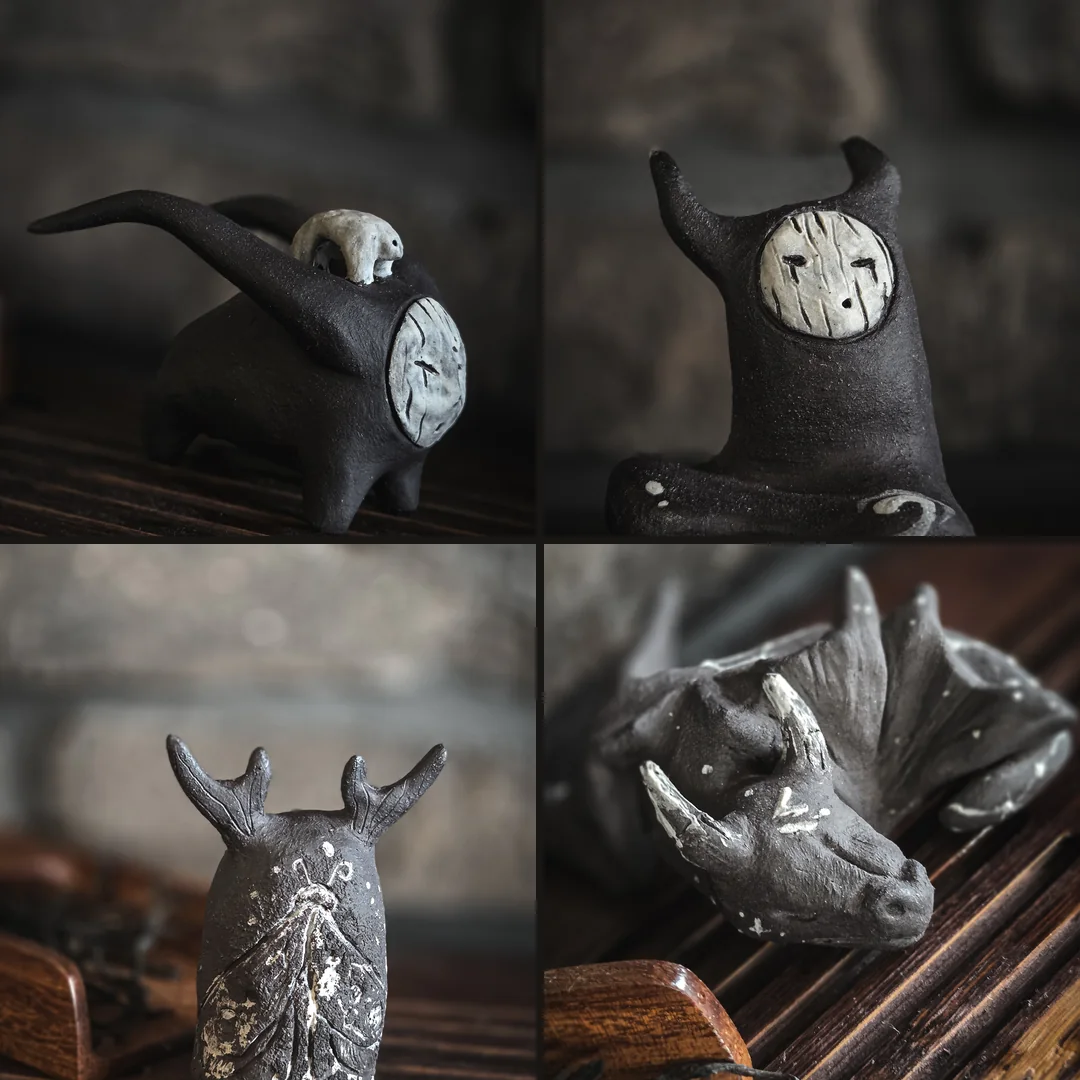
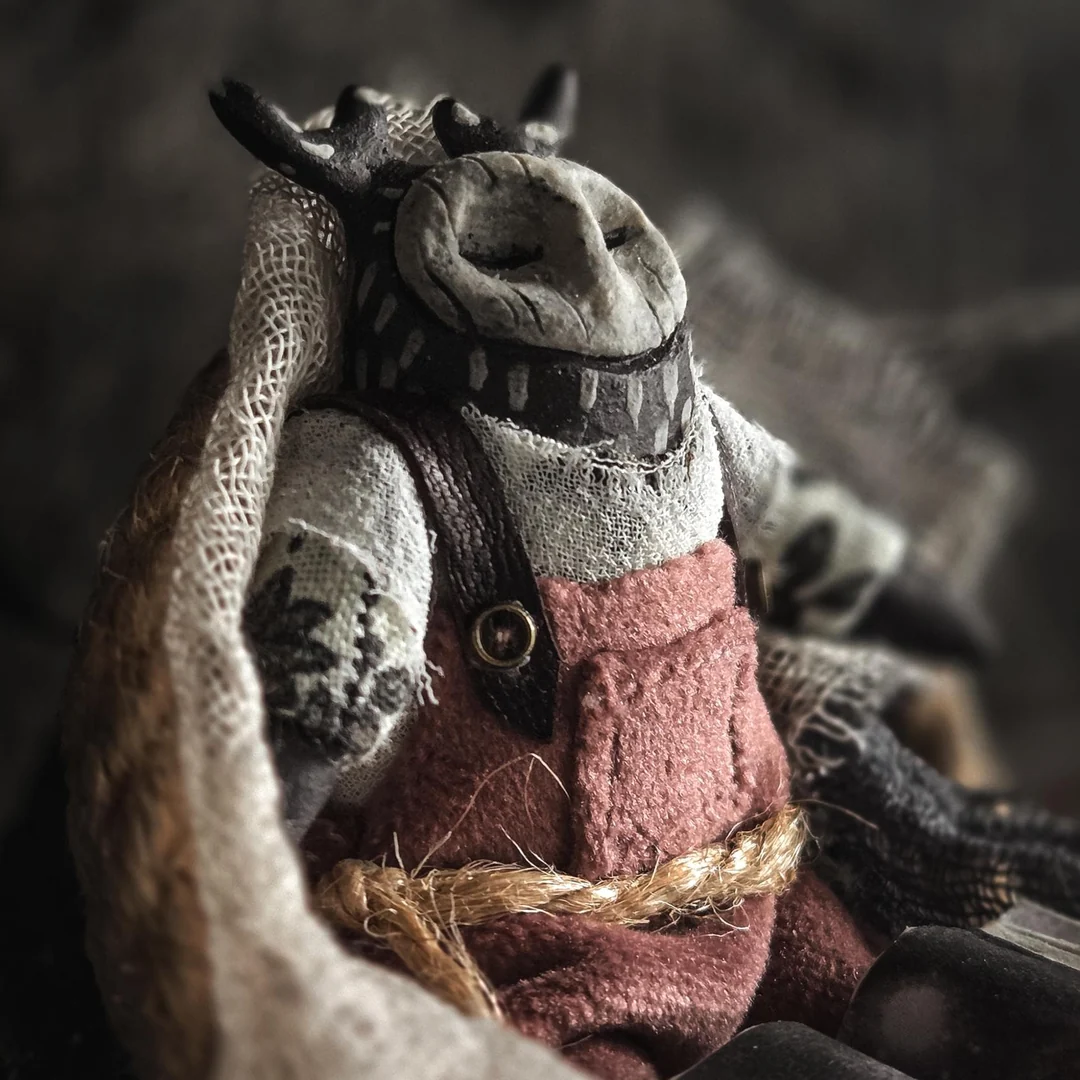
Дроп LIVE: Spores — MarshmallOwl (woodland owl, art doll)
- MarshmallOwl добавлена в Spores: 9 фото 4:5 (webp), легенда, досье, Etsy-ссылка
- DSA.drop ссылается на объект из DSA.spores по имени (единый источник, без дублирования)
- DROP: status=live, date/liveSince=2026-07-13, type='dolls', кастомные titleLive/leadLive
- сразу live, без coming-soon (по запросу); comingImg/cover сброшены к дефолтам
- featured.webp (hero-карусель) = квадрат MarshmallOwl (портрет крупным планом)
- sitemap: lastmod + фото MarshmallOwl в image-sitemap под /art-dolls/
- материалы дропа в drops/active/2026-07-13-marshmallowl/

diff --git a/assets/data.js b/assets/data.js
@@ -58,35 +58,33 @@ DSA.urban =
 
 DSA.spores =
 [
+    {name:"MarshmallOwl",mood:"A sunny-hearted owl of cocoa and books.",avail:1,url:"https://darksagaart.etsy.com/listing/4537250897",img:"/assets/works/spores/marshmallowl/01.webp",photos:["/assets/works/spores/marshmallowl/01.webp", "/assets/works/spores/marshmallowl/02.webp", "/assets/works/spores/marshmallowl/03.webp", "/assets/works/spores/marshmallowl/04.webp", "/assets/works/spores/marshmallowl/05.webp", "/assets/works/spores/marshmallowl/06.webp", "/assets/works/spores/marshmallowl/07.webp", "/assets/works/spores/marshmallowl/08.webp", "/assets/works/spores/marshmallowl/09.webp"],story:"She embodies a joyful, sunny day on the veranda. Her presence fills the space with genuine cheer and a sense of absolute coziness. The aroma of hot chocolate, sweet marshmallows, and freshly printed pages always lingers in the air.\n\nShe possesses an extraordinary gift of empathy, intuitively sensing the mood of others and generously sharing her positivity.\n\nEvery adorable trinket nearby takes on a special meaning, adding a spark of joy to everyday life.\n\nShe is a concentrate of pure friendliness, warming hearts and inspiring the brightest emotions, accompanied by sincere, ringing laughter.",series:"Spores",vibe:"",atmosphere:"",personality:"",profile:[{"k": "Vibe", "v": "Sunny veranda, ringing laughter, aroma of cocoa with marshmallows, absolute comfort."}, {"k": "Character", "v": ["Empathetic", "Cheerful", "Open-hearted", "Friendly"]}, {"k": "Loves", "v": ["Life", "Sunlight", "Laughter", "Cocoa with a mountain of marshmallows", "Reading", "Good company", "Cute trinkets", "Jokes"]}, {"k": "Avoids", "v": ["Rainy weather", "Gloomy days", "Melancholy", "Boredom"]}]},
     {name:"Skyline Nomad",mood:"Rooftop spirit chasing wind.",avail:0,url:"https://darksagaart.etsy.com/listing/4508369970/",img:"/assets/works/spores/skyline-nomad/01.webp",photos:["/assets/works/spores/skyline-nomad/01.webp", "/assets/works/spores/skyline-nomad/02.webp", "/assets/works/spores/skyline-nomad/03.webp", "/assets/works/spores/skyline-nomad/04.webp", "/assets/works/spores/skyline-nomad/05.webp", "/assets/works/spores/skyline-nomad/06.webp"],story:"He dwells where the city's concrete constraints end and the open expanse begins. The Skyline Nomad is a spirit of the heights, driven by a physical need for the wind in his face and constant motion. He shares the upper realm with the birds and balances on the edges of the abyss for the pure, intoxicating feeling of freedom.\n\nIf you have ever felt the urge to escape the suffocating noise of the streets and find peace on a high, wind-swept roof, this little nomad is your perfect companion. He is a listener for those who find comfort and freedom in the heights.",series:"Spores",vibe:"",atmosphere:"",personality:"",profile:[{"k": "Likes", "v": "The smell of ozone right before a thunderstorm, the vibration of subway trains echoing up through the walls, the rumble of old ventilation units."}, {"k": "Dislikes", "v": "Sitting still for too long."}, {"k": "Biggest fear", "v": "Being permanently grounded, or trapped in a windowless basement."}, {"k": "Habits", "v": "Dropping tiny pebbles down deep ventilation shafts to listen to the echo bounce."}, {"k": "Secrets", "v": "Hides a collection of small human things snatched under loose roof tiles."}]},
     {name:"The Roastery Kodama",mood:"Fueled by specialty coffee.",avail:0,url:"https://darksagaart.etsy.com/listing/4505211581/",img:"/assets/works/spores/the-roastery-kodama/01.webp",photos:["/assets/works/spores/the-roastery-kodama/01.webp", "/assets/works/spores/the-roastery-kodama/02.webp", "/assets/works/spores/the-roastery-kodama/03.webp", "/assets/works/spores/the-roastery-kodama/04.webp", "/assets/works/spores/the-roastery-kodama/05.webp", "/assets/works/spores/the-roastery-kodama/06.webp"],story:"He is concentrated life energy, the invisible force that shakes the city out of its slumber.\n\nOnce, this forest spirit matured in the warm gloom of tropical lands, for years soaking up the juices from the roots of wild coffee groves. Since moving to the megalopolis, he has quickly found his new power spots: the fragrant, sun-warmed corners of roasting houses and specialty coffee shops.\n\nHe has become the Roastery Kodama, a spirit-resonator who sincerely adores the morning rush, the hum of industrial roasters, and the thick, intoxicating scent of a fresh grind.\n\nA companion to early birds and midnight thinkers. He is a reminder: to truly wake up, find your voice, and embrace a new day, you must simply shed your old, outgrown shell.",series:"Spores",vibe:"",atmosphere:"",personality:"",profile:[{"k": "Vibe", "v": "The hyperactive soulmate who never sleeps and charges everyone around him with electric energy."}, {"k": "Hangouts", "v": "Top shelves of indie bookstores, tucked inside burlap coffee sacks, or perched behind industrial roasting exhausts where the air is warmest."}, {"k": "Likes", "v": ["Singing at the top of his lungs in sync with professional coffee grinders (he thinks they are performing a duet).", "The scent of 100% Arabica with anaerobic fermentation.", "Snuggling inside coffee bean bags.", "Overhearing deep, late-night conversations."]}, {"k": "Dislikes", "v": ["Instant 3-in-1 coffee (he considers it a personal insult and a crime against nature)."]}, {"k": "Secret tricks", "v": ["Left on your shelf next to a real coffee bean, he guards you against morning grogginess.", "At night he secretly tweaks the grind settings on espresso machines with his gear-wheel to make the flavour woodsier. Baristas are baffled the next morning."]}]}
   ];
 
 /* DROP — работы текущего дропа (единый источник для превью на главной и страницы /drop/).
-   Дроп от 2026-07-12: Nightsong (6 tea pets) — Eylin, Virel, Lyr, Sylin, Wynn, Aven.
-   НЕ дублируем объекты: берём их же из DSA.tea по именам (одна правка — везде синхронно).
-   Aven продан на ярмарке (avail:0, без Etsy). Порядок вывода — availFirst() (доступные вперёд).
+   Дроп от 2026-07-13: Spores — MarshmallOwl (одиночная кукла, art doll).
+   НЕ дублируем объект: берём его же из DSA.spores по имени (одна правка — везде синхронно).
    После дропа сбросить обратно к `DSA.drop = [];` (см. правило сброса). */
-DSA.drop = DSA.tea.filter(function(o){
-  return ["Eylin","Virel","Lyr","Sylin","Wynn","Aven"].indexOf(o.name) >= 0;
-});
+DSA.drop = DSA.spores.filter(function(o){ return o.name === "MarshmallOwl"; });
 
 /* DROP / NEWS — конфиг анонса дропа (status:off по умолчанию) */
 DSA.DROP =
 {
     status:'live',                                  // 'off' | 'soon' | 'live' — переключаешь руками
-    date:'2026-07-12',                              // день дропа (для отсчёта в 'soon')
-    liveSince:'2026-07-12',                         // дата запуска 'live'; через liveDays сайт сам уходит в 'off'
+    date:'2026-07-13',                              // день дропа (для отсчёта в 'soon')
+    liveSince:'2026-07-13',                         // дата запуска 'live'; через liveDays сайт сам уходит в 'off'
     liveDays:14,                                    // сколько дней висит дроп, потом авто-возврат
-    type:'teapets',                                 // 'teapets' | 'dolls' — задел на разные картинки «скоро» (пока одна на всех)
-    comingImg:'/assets/drop/coming.webp',            // фон-тизер в «скоро» (под вуалью, в hero-карусели главной)
+    type:'dolls',                                   // 'teapets' | 'dolls' — MarshmallOwl это art doll
+    comingImg:'/assets/drop/coming.webp',            // фон-тизер в «скоро» (под вуалью, в hero-карусели главной) — дефолт
     cover:'/assets/drop/cover.webp',                 // фон страницы /drop/ в 'soon'; общий дефолт — assets/drop/cover.webp
     accent:'calm',                                  // акцент карусели в live: 'calm'|'shimmer'|'sparkle'|'glow'
-    featured:{img:'/assets/drop/featured.webp', name:'New Drop'}, // обложка дропа: коллаж 2x2 (Aven·Eylin·Sylin·Virel) в hero-карусели во время live
+    featured:{img:'/assets/drop/featured.webp', name:'MarshmallOwl'}, // обложка дропа: фото MarshmallOwl (фас) в hero-карусели во время live
     etsy:'https://darksagaart.etsy.com',
     // Кастомные тексты hero страницы /drop/ в 'live' (перекрывают дефолт). Очисти/убери для след. дропа.
-    titleLive:'Nightsong series',
-    leadLive:'Born in the heart of the night. They sing with the wind, dance with night moths, and fly to the stars while the world is asleep. And they are ready to take you with them, if you dare.'
+    titleLive:'MarshmallOwl',
+    leadLive:'A pocket-sized ball of sunshine from the Spores series. She carries the scent of cocoa and fresh pages, senses your mood before you do, and answers the world with ringing laughter. Adopt her before someone else does.'
     // ribbonSoon (кастомные строки бегущей ленты в 'soon') не заданы — для live не нужны,
     // используется дефолтный текст. Добавь массив ribbonSoon:[...] при следующем 'soon'-анонсе.
   };
